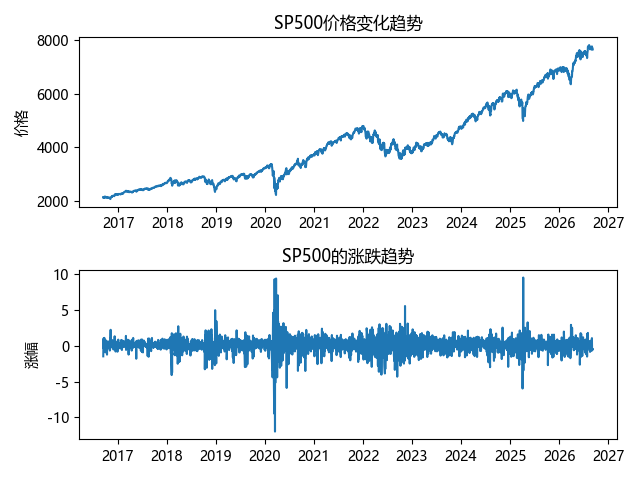
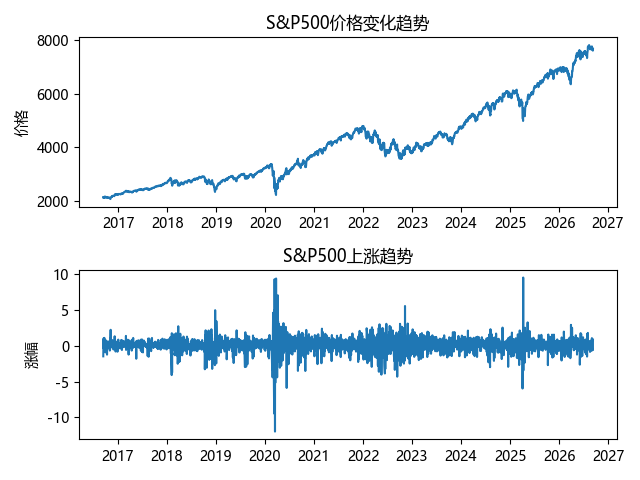
Release v1.1

diff --git a/sp500.py b/sp500.py
@@ -1,62 +1,100 @@
+import pandas as pd
 import requests
 import os
-import pandas as pd
-import matplotlib.pyplot as plt
 from io import StringIO
+import matplotlib.pyplot as plt
 
-url='https://fred.stlouisfed.org/graph/fredgraph.csv?id=SP500'
-response = None
-for i in range(3):
-    try:
-       response = requests.get(url,timeout=10)
-       response.raise_for_status()
-       break                
-    except requests.exceptions.RequestException:
-        response = None
-        print(f"第{i+1}次获取失败")
-if response is None:
-    print("连续三次请求失败，程序结束")
-    raise SystemExit
+def fetch_data(url):
+    response=None
+    for i in range(3):
+        try:
+            response=requests.get(url,timeout=10)
+            response.raise_for_status()
+            break
+        except requests.exceptions.RequestException:
+            response=None
+            print(f"第{i+1}次获取失败")
+    if response is None:
+        print("连续三次请求失败，程序结束")
+        raise SystemExit
+    return response
 
-if os.path.exists("sp500.csv"):
-    print("已检测到本地数据，执行更新")
-else:
-    with open("sp500.csv","w") as f:
-        f.write(response.text)
-    print("没有本地文件，创建原始数据")
+def clean_data(df):
+    df['observation_date']=pd.to_datetime(df['observation_date'])
+    df['SP500']=pd.to_numeric(df['SP500'],errors="coerce")
+    df = df.dropna(subset=["SP500"])
+    df=df.set_index('observation_date')
+    return df
 
-df=pd.read_csv("sp500.csv")
-df['observation_date']=pd.to_datetime(df["observation_date"])
-df=df.dropna()
-df=df.set_index("observation_date")
-df["daily_return"]=df["SP500"].pct_change()*100
+# new_df=pd.read_csv(StringIO(response.text))
+# new_df['observation_date']=pd.to_datetime(new_df['observation_date'])
+# new_df['SP500']=pd.to_numeric(new_df['SP500'],errors="coerce")
+# new_df = new_df.dropna(subset=["SP500"])
+# new_df=new_df.set_index('observation_date')
 
-last_date=df.index.max()
-new_df=pd.read_csv(StringIO(response.text))
-new_df["observation_date"]=pd.to_datetime(new_df["observation_date"])
-new_df=new_df.dropna()
-new_df=new_df.set_index("observation_date")
-new_df["daily_return"]=new_df["SP500"].pct_change()*100
+# last_date=max(df['observation_date'])
+# new_df=new_df[new_df['observation_date']>last_date]设置成index以后就不在new_df['observation_date']里面了
+# new_df=new_df[new_df.index>max(df.index)]这句可以删掉了，万一本地有错误，只拿新日期的就没法修改旧的错误了
 
-new_df=new_df[new_df.index > last_date]
-test_df=pd.concat([df,new_df])
-test_df=test_df.sort_index()
-test_df.to_csv("sp500.csv")
 
-plt.rcParams["font.sans-serif"] = ["Microsoft YaHei"]
-plt.rcParams["axes.unicode_minus"] = False
+def merge_data(old_data,new_data):
+    combined_df=pd.concat([old_data,new_data])
+    combined_df=combined_df[~combined_df.index.duplicated(keep='last')]
+    combined_df = combined_df.sort_index()
+    # 永远不要假设去重、拼接后的数据顺序还是对的
+    combined_df['daily_return']=combined_df['SP500'].pct_change()*100
+    return combined_df
 
-plt.subplot(2,1,1)
-plt.plot(test_df.index, test_df["SP500"])
-plt.ylabel("价格")
-plt.title("SP500价格变化趋势")
+def paint(df):
+    plt.rcParams["font.sans-serif"] = ["Microsoft YaHei"]
+    plt.rcParams["axes.unicode_minus"] = False
 
-plt.subplot(2,1,2)
-plt.plot(test_df.index, test_df["daily_return"])
-plt.ylabel("涨幅")
-plt.title("SP500的涨跌趋势")
+    plt.subplot(2,1,1)
+    plt.plot(df.index,df["SP500"])
+   
+    plt.ylabel("价格")
+    plt.title("S&P500价格变化趋势")
 
-plt.tight_layout()
-plt.savefig("SP500.png")
-plt.show()
+    plt.subplot(2,1,2)
+    plt.plot(df.index,df["daily_return"])
+    plt.ylabel("涨幅")
+    plt.title("S&P500上涨趋势")
+
+    plt.tight_layout()
+    plt.savefig("SP500.png")
+    plt.show()
+
+def main():
+    url='https://fred.stlouisfed.org/graph/fredgraph.csv?id=SP500'
+    response=fetch_data(url)
+
+    new_df=pd.read_csv(StringIO(response.text))
+    new_df=clean_data(new_df)
+
+    if os.path.exists("sp500.csv"):
+        print("检测到已有数据，正在更新")
+
+        old_df=pd.read_csv("sp500.csv")
+        old_df=clean_data(old_df)
+
+        combined_df=merge_data(old_df,new_df)
+
+    else:
+        # with open("sp500.csv","w") as f:
+        #     f.write(response.text)
+        print("未检测到数据，正在创建原始数据")
+        combined_df=new_df
+    combined_df.to_csv("sp500.csv")
+# to_csv会创建csv文件
+    paint(combined_df)
+if __name__ == "__main__":
+    main()
+
+
+
+
+    
+
+
+
 
